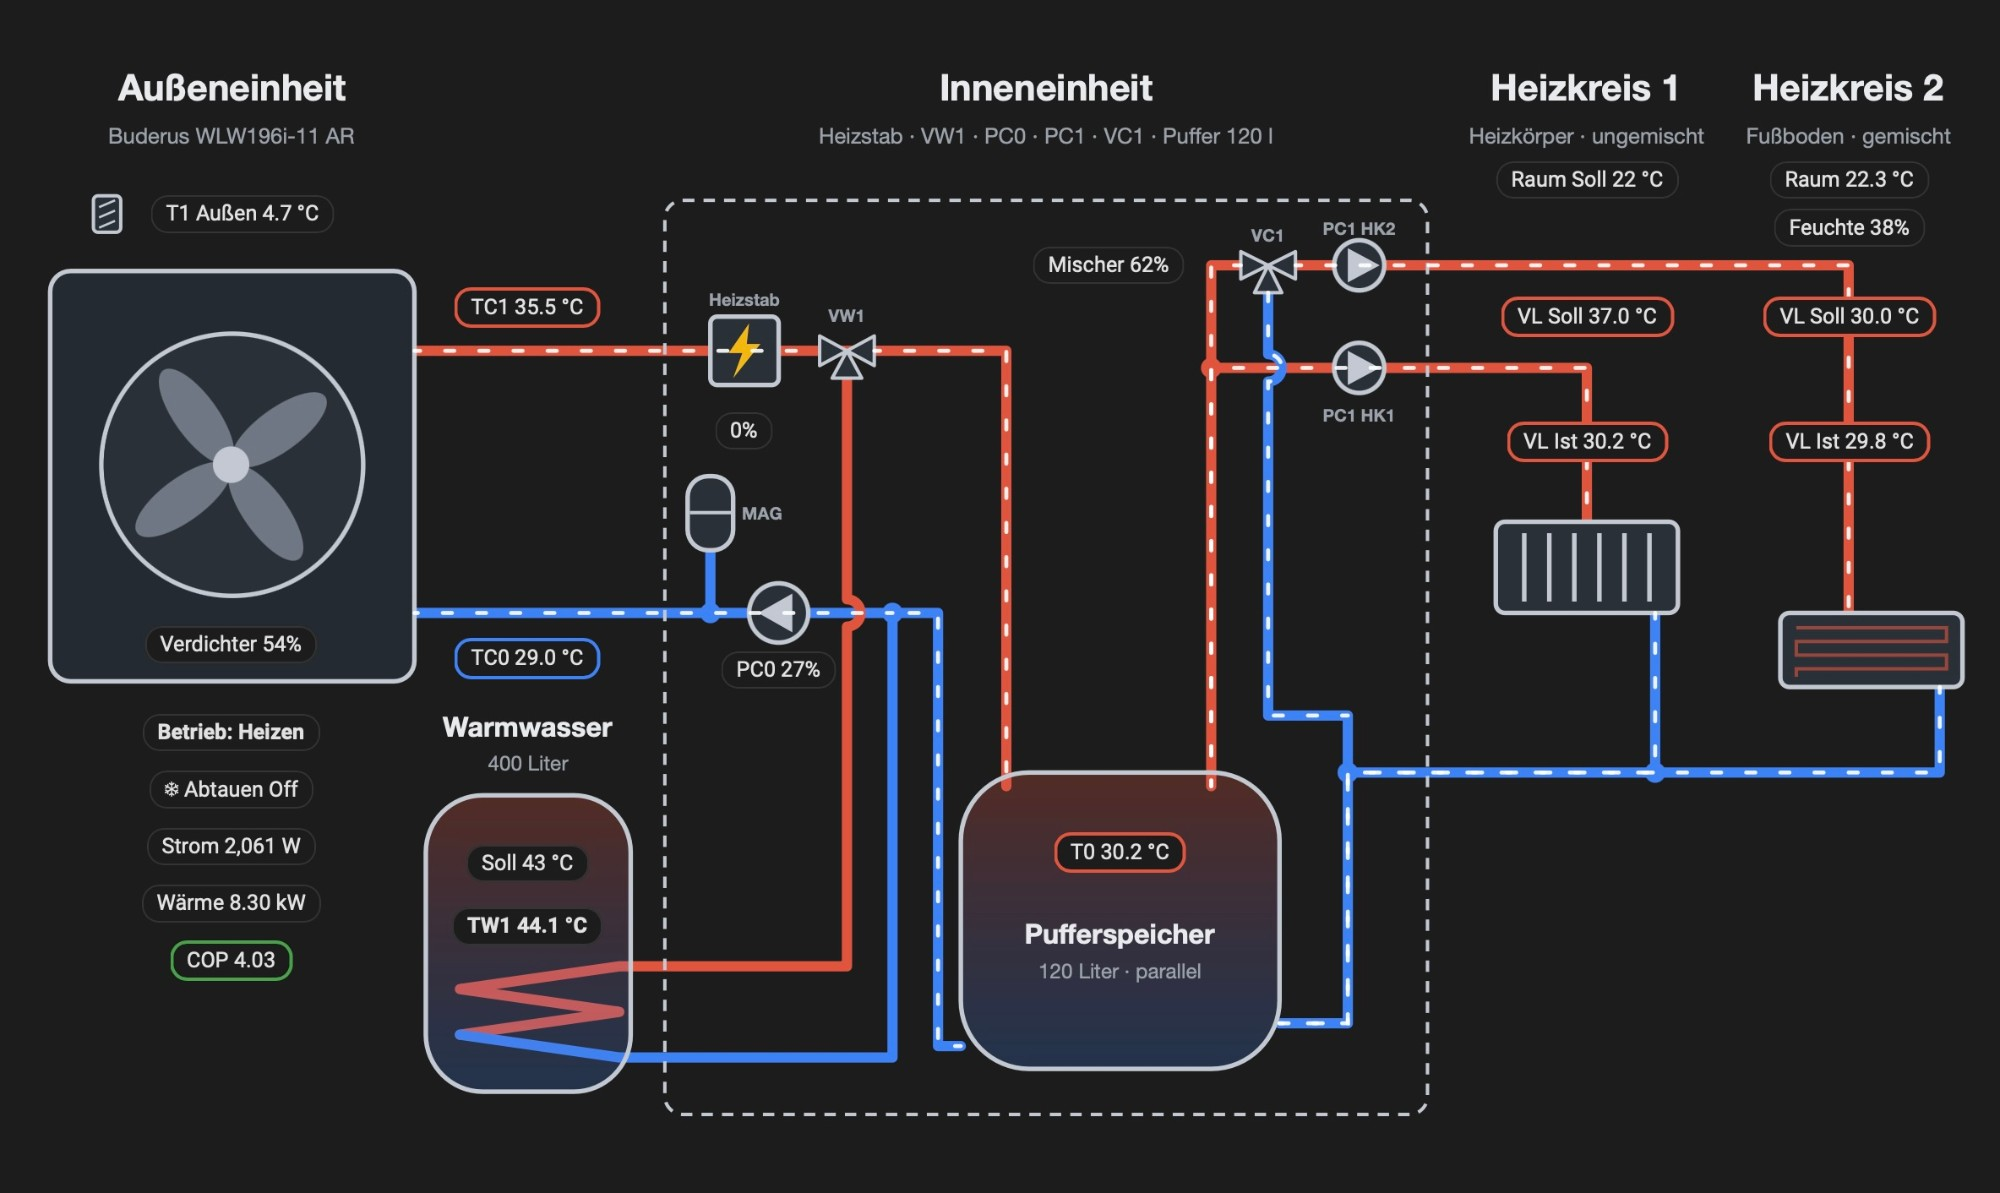
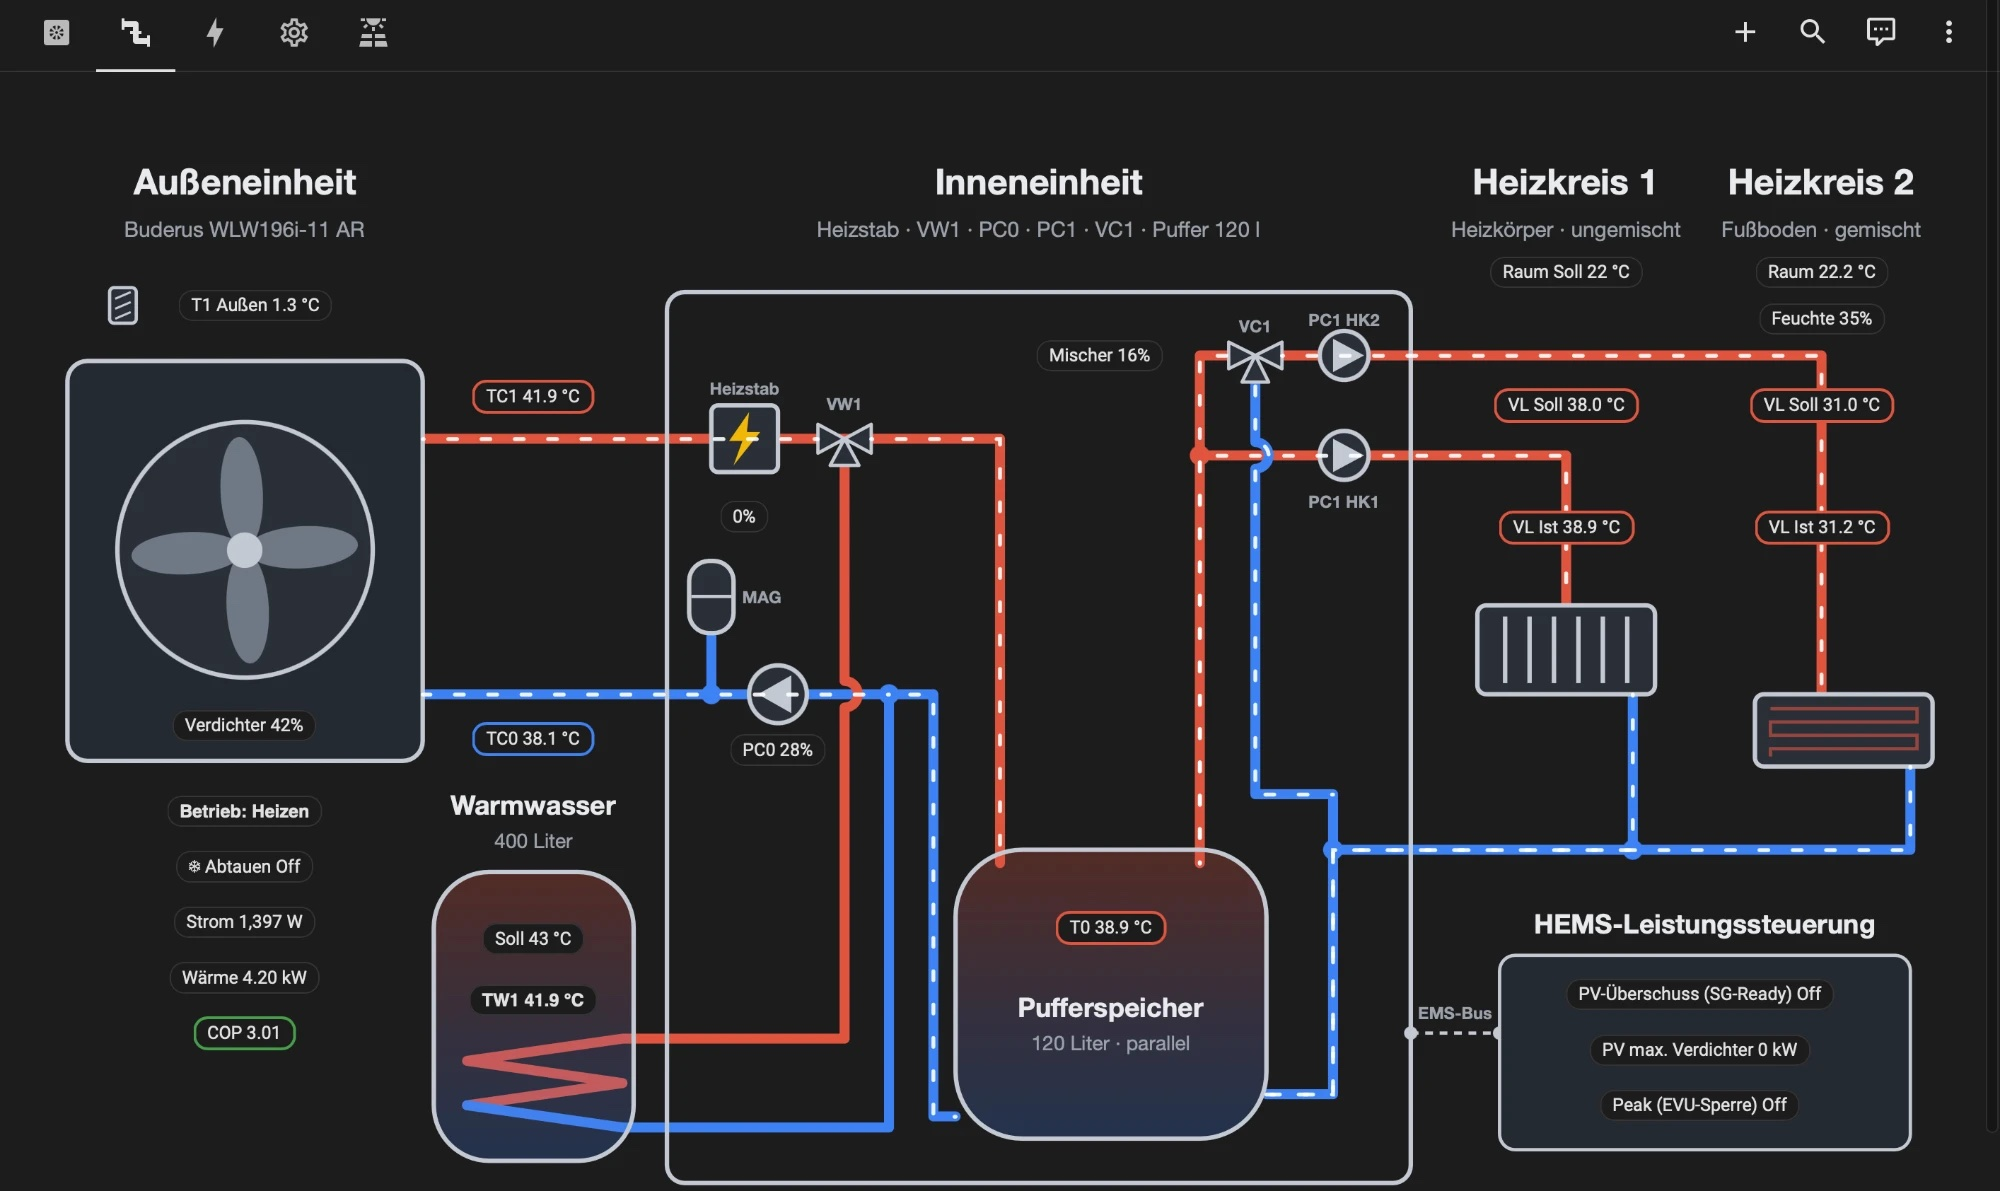
Screenshot des Anlagenschemas aktualisiert

diff --git a/README.md b/README.md
@@ -56,7 +56,7 @@ www/waermepumpe/flow-*.svg     animierte Fluss-Overlays (Primärkreis, Puffer, W
 www/waermepumpe/fan.svg        drehender Ventilator
 www/waermepumpe/defrost.svg    Abtau-Overlay
 examples/utility_meter.yaml    Tageszähler für Strom und Wärme (optional, siehe unten)
-docs/anlage.jpg                Screenshot (Stand vor HEMS-Box und Übersichts-Umbau)
+docs/anlage.jpg                Screenshot der Ansicht „Anlage“
 ```
 
 ## Voraussetzungen
